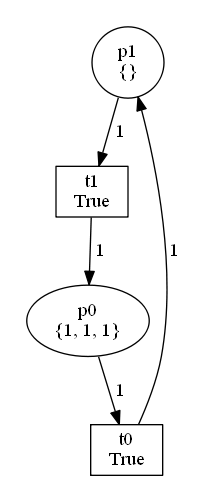
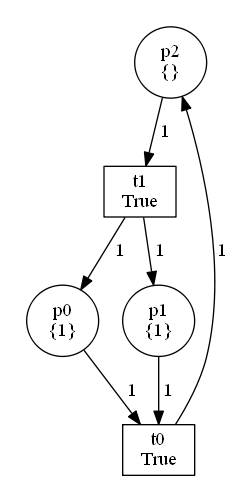
Second tutorial added, multiinput transitions

diff --git a/RAS_AssemblyLine/Tutorial2.py b/RAS_AssemblyLine/Tutorial2.py
@@ -2,25 +2,24 @@ import snakes.plugins
 snakes.plugins.load('gv', 'snakes.nets', 'nets')
 from nets import *
 n = PetriNet('Tutorial Net')
-n.add_place(Place('p0', [1,1,1]))
+n.add_place(Place('p0', [1]))
 n.add_place(Place('p1', [1]))
+n.add_place(Place('p2', []))
 
 n.add_transition(Transition('t0'))
 n.add_input('p0','t0',Value(1))
-n.add_output('p1','t0',Value(1))
+n.add_input('p1','t0',Value(1))
+n.add_output('p2','t0',Value(1))
 
 n.add_transition(Transition('t1'))
-n.add_input('p1','t1',Value(1))
+n.add_input('p2','t1',Value(1))
 n.add_output('p0','t1',Value(1))
-
+n.add_output('p1','t1',Value(1))
 
 n.draw('TutorialNet.png')
 print(n.transition('t0').modes())
 n.transition('t0').fire(Substitution())
 n.draw('TutorialNetfire1.png')
-n.transition('t0').fire(Substitution())
-n.draw('TutorialNetfire2.png')
 n.transition('t1').fire(Substitution())
-n.draw('TutorialNetfire3.png')
-n.transition('t0').fire(Substitution())
-n.draw('TutorialNetfire4.png')
+n.draw('TutorialNetfire2.png')
+

diff --git a/RAS_AssemblyLine/Tutorial1.py b/RAS_AssemblyLine/Tutorial1.py
@@ -24,3 +24,4 @@ n.transition('t1').fire(Substitution())
 n.draw('TutorialNetfire3.png')
 n.transition('t0').fire(Substitution())
 n.draw('TutorialNetfire4.png')
+
